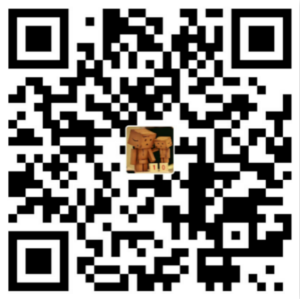
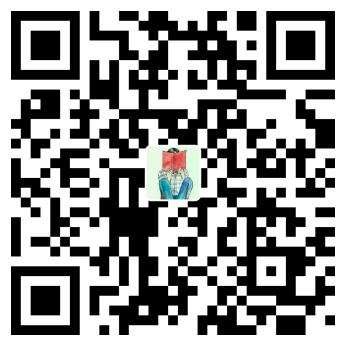
update several pictures and configures.

diff --git a/donate.md b/donate.md
@@ -29,9 +29,9 @@ p {
 
 如果在你开发或学习过程中本博客帮助到了你 ...
 
-你可以对本博客 **小额赞助** 一下，让我有动力继续写出更高质量的文章。
+并且你已经有了自己的个人收入，生活之外能够有所余裕 ...
 
-![坐等天上掉红包~](/assets/imgs/donate_1.png)
+你可以对本博客 **小额赞助** 一下，让我有动力继续写出更高质量的文章。
 
 ## 赞助方式一：支付宝付款
 
@@ -43,24 +43,12 @@ p {
 
 您可以选择手机微信扫一扫：
 
-![微信转账二维码](/assets/imgs/weixin_pay.png)
+![微信转账二维码](/assets/imgs/wechat_pay.png)
 
-## 感谢赞助者
+## 赞助方式三：关注公众号
 
-| 昵称      | 金额   | 日期       | 方式 | 留言                 |
-|:----------|:-------|:-----------|:-----|:---------------------|
-| @鄙人公孙 |  ￥8.80 | 2017-06-08 | 微信 | 感谢！               |
-| @Sunsety  |  ￥5.00 | 2017-06-08 | 微信 | 感谢！               |
-| #未留名   |  ￥1.20 | 2017-06-27 | 微信 | 感谢！               |
-| #未留名   |  ￥8.80 | 2017-09-22 | 微信 | main如何理解写的很好 |
-| @90210    | ￥20.18 | 2018-01-08 | 微信 | 感谢！               |
-| #未留名   |  ￥1.20 | 2018-01-25 | 微信 | 感谢！               |
-| #未留名   |  ￥2.00 | 2018-02-02 | 微信 | 感谢！               |
-| #未留名   |  ￥0.88 | 2018-04-26 | 微信 | 感谢！               |
-| #未留名   |  ￥1.20 | 2018-04-30 | 微信 | 感谢！               |
-| #未留名   |  ￥1.00 | 2018-05-01 | 微信 | 感谢，main           |
-| @殿下     |  ￥6.66 | 2018-05-07 | 微信 | 感谢！               |
+当然地主家也可能没有余粮，您可以关注我的微信公众号：oukohou，也不失为一种赞助：
 
-![这个发红包的好帅](/assets/imgs/donate_2.png)
+![微信公众号](/assets/imgs/wechat_official_account.png)
 
 > 声明: 此博客用于分享作者个人的一些技术总结，以及记录生活中的所感所想所思。除特殊说明外，本站文章均采用 <a rel="license" href="https://creativecommons.org/licenses/by-nc-nd/4.0/deed.zh"> 知识共享署名-非商业性使用-禁止演绎 4.0 国际许可协议 </a>进行许可。

diff --git a/about.md b/about.md
@@ -4,12 +4,7 @@ title: About
 permalink: /about/
 ---
 
-This is the base Jekyll theme. You can find out more info about customizing your Jekyll theme, as well as basic Jekyll usage documentation at [jekyllrb.com](http://jekyllrb.com/)
-
-You can find the source code for the Jekyll new theme at:
-{% include icon-github.html username="jglovier" %} /
-[jekyll-new](https://github.com/jglovier/jekyll-new)
-
-You can find the source code for Jekyll at
-{% include icon-github.html username="jekyll" %} /
-[jekyll](https://github.com/jekyll/jekyll)
+我梦扬州，便想到扬州梦我。
+幸会。
+微信公众号：
+![wechat_official_account](./assets/imgs/wechat_official_account.png)
